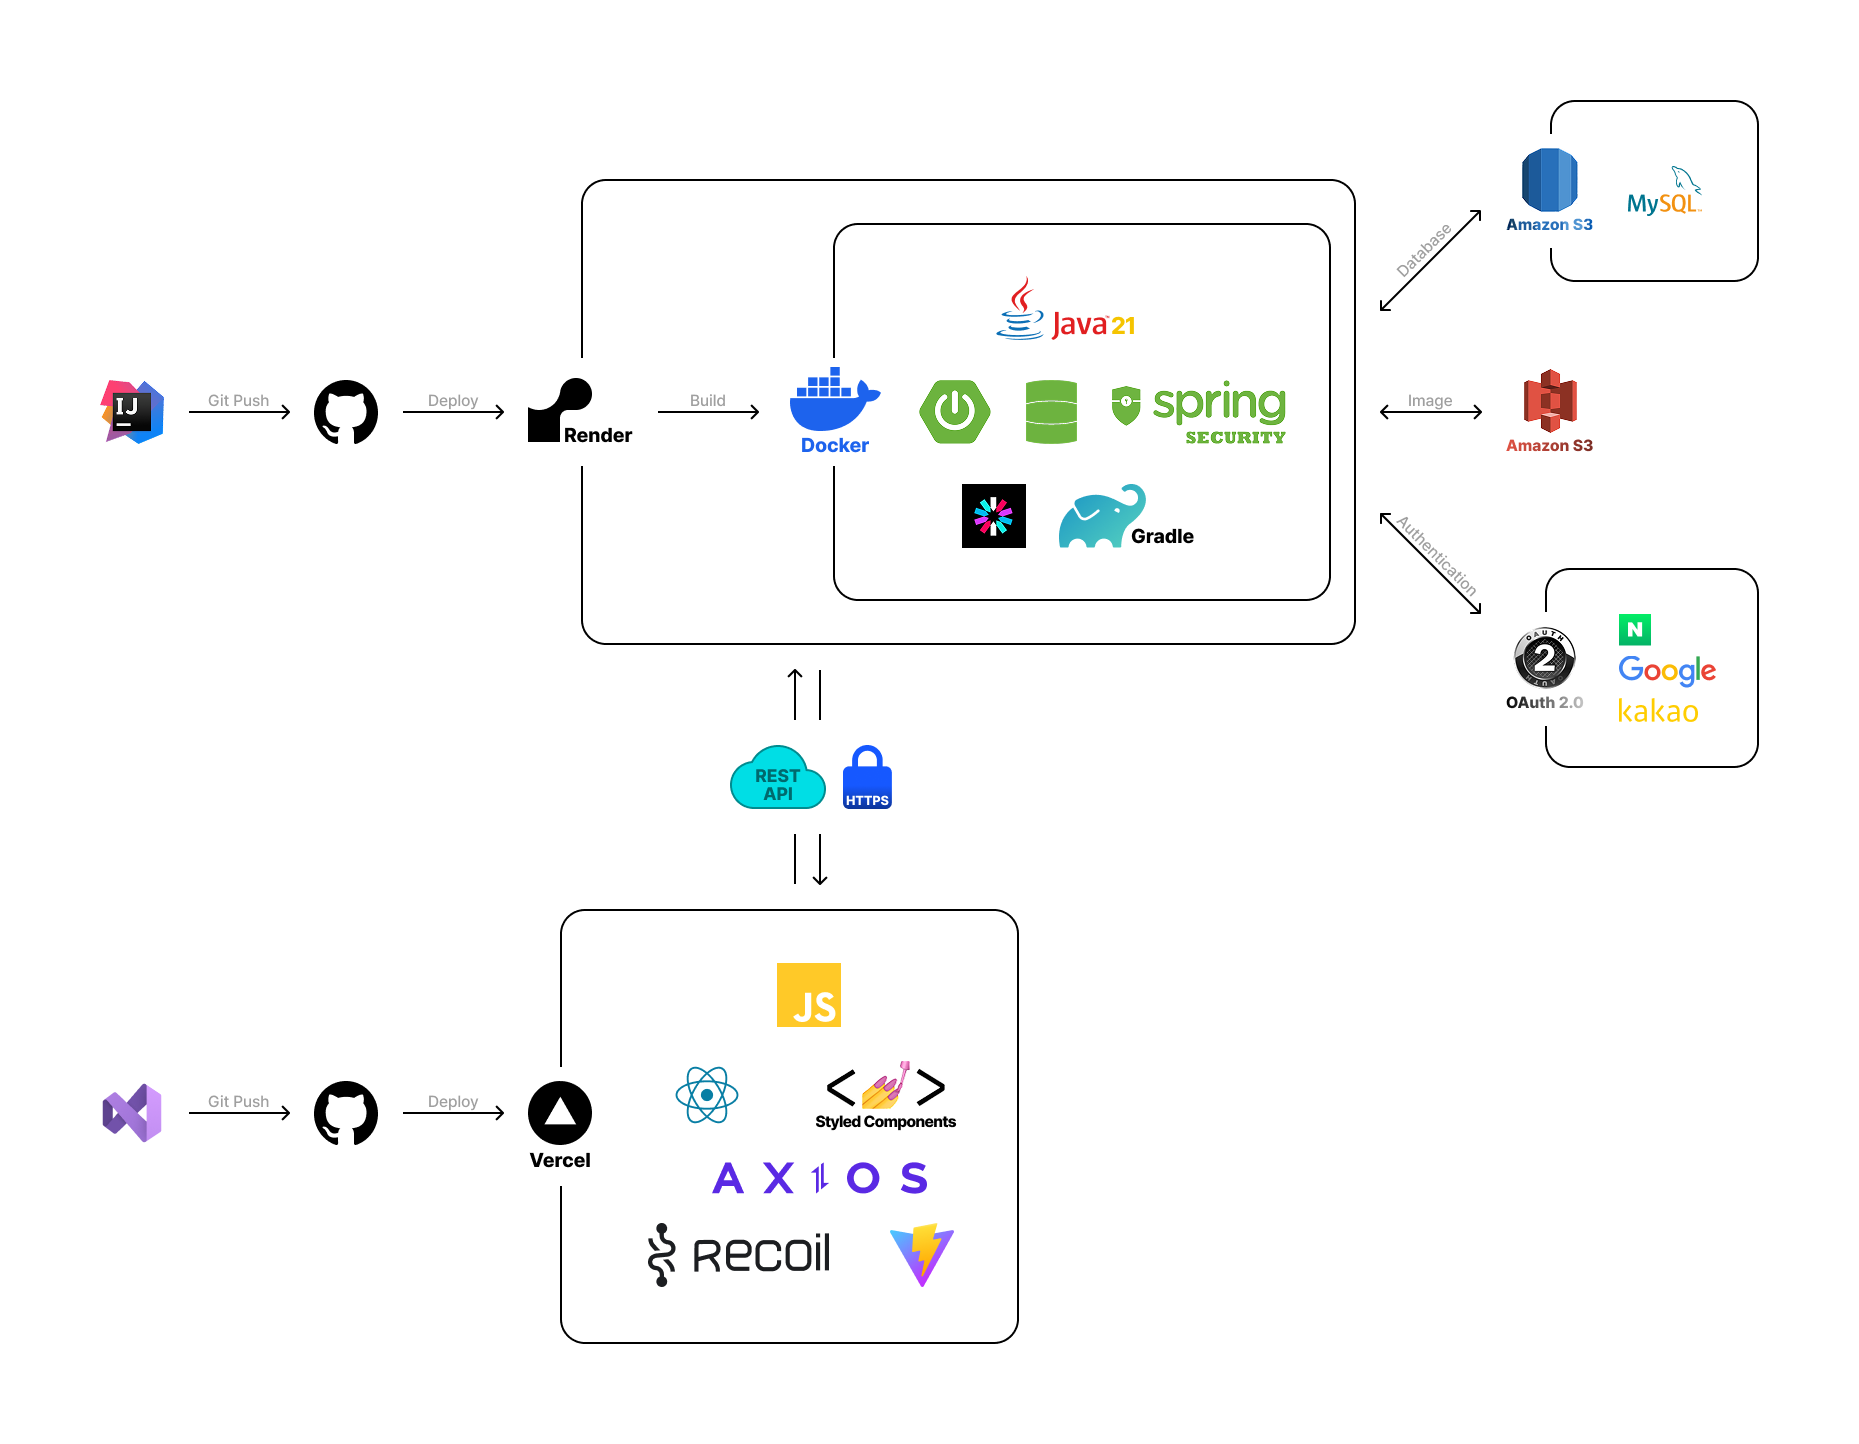
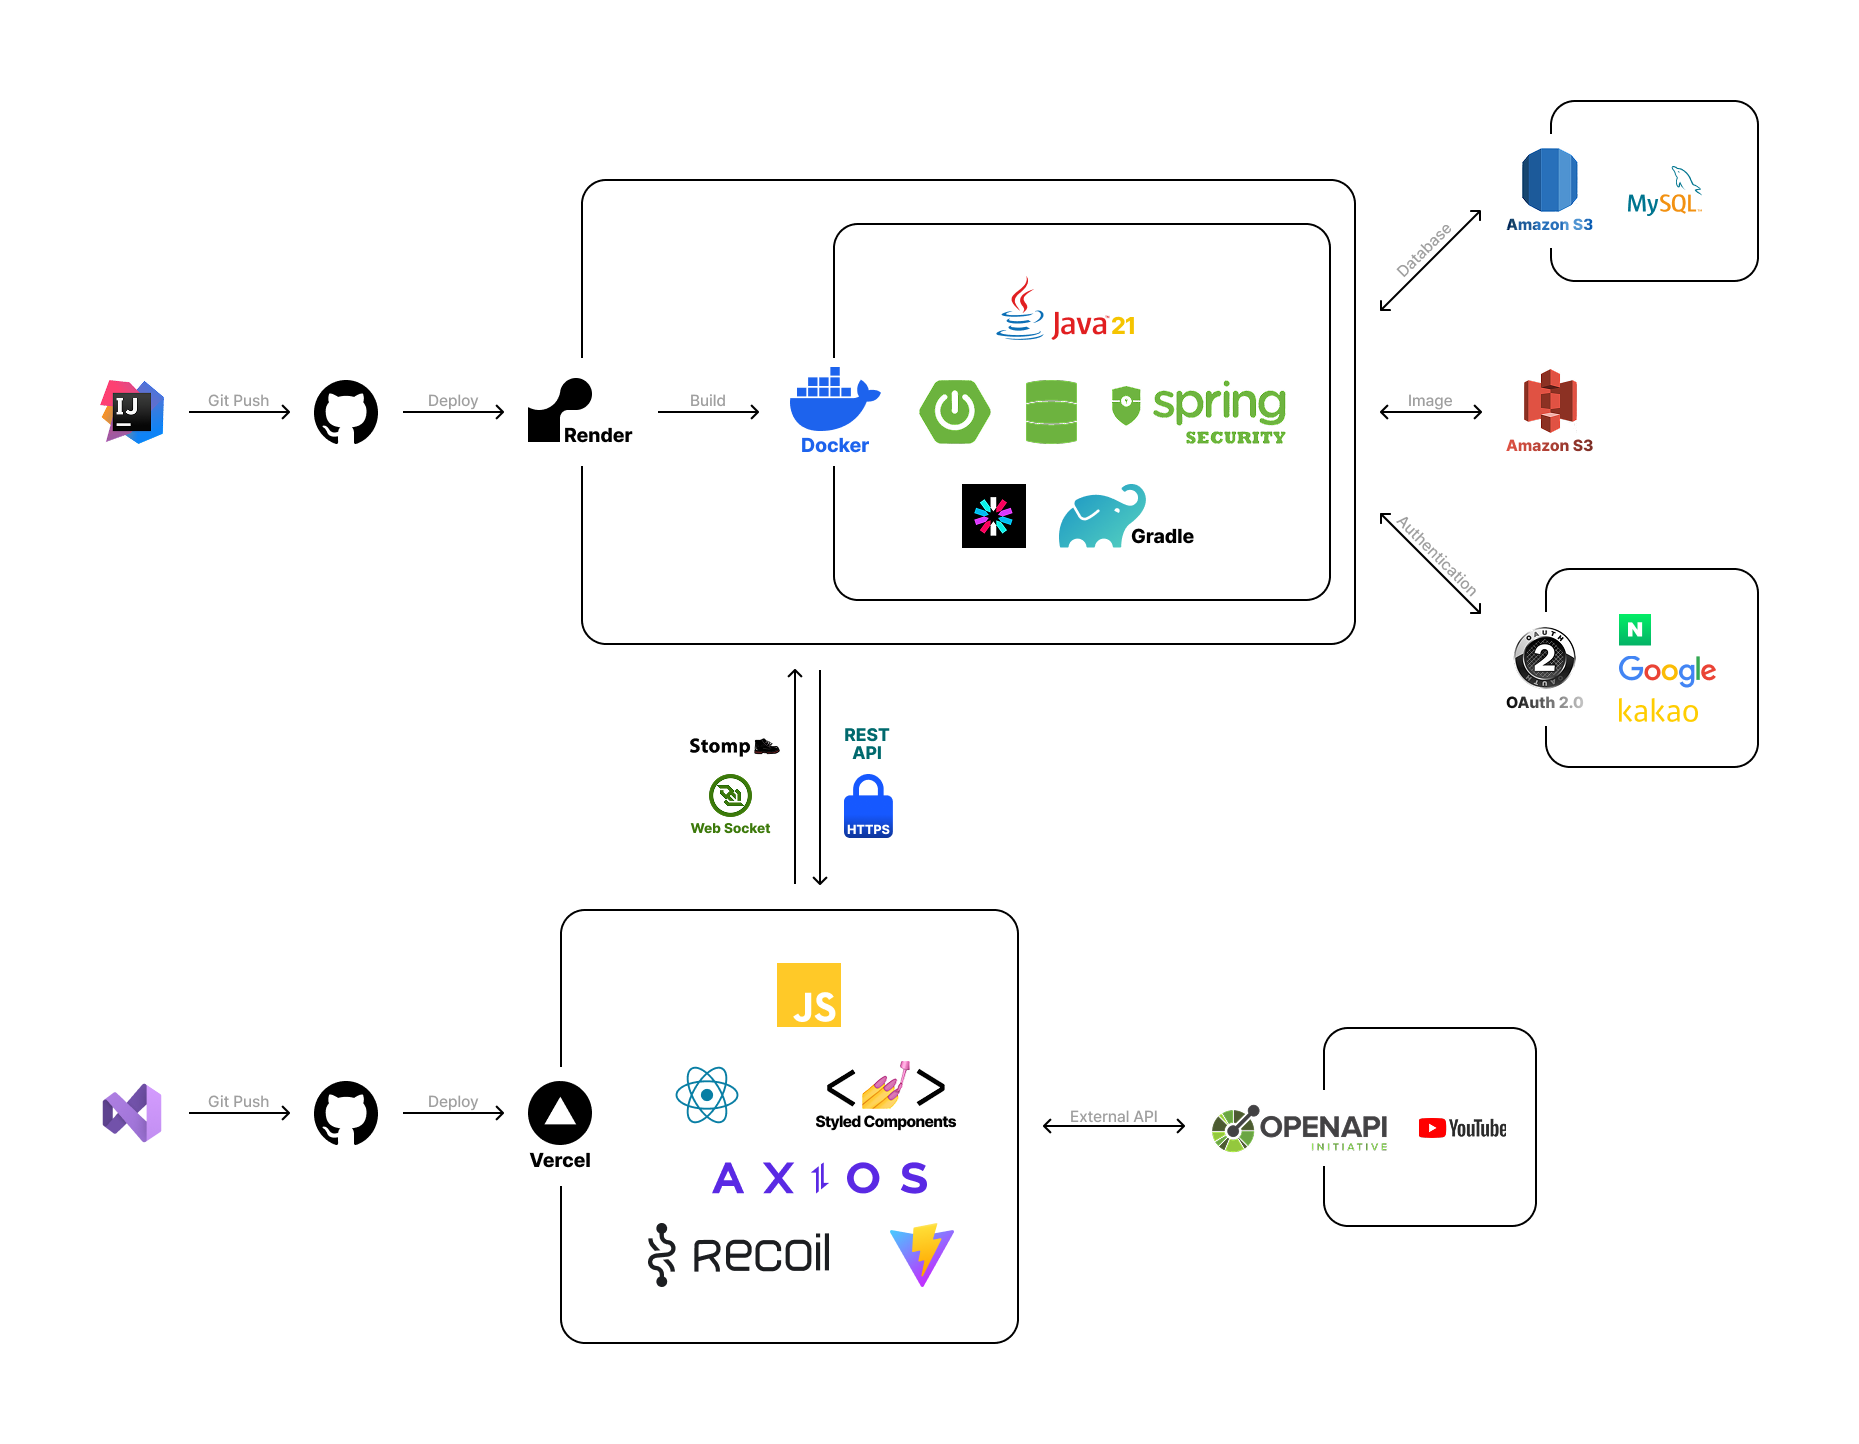
#fix: about page and system architecture

Changed region(s): [[0.3744, 0.4986, 0.4992, 0.5921], [0.6552, 0.7479, 0.8112, 0.8102]]

diff --git a/src/components/footer/about/index.jsx b/src/components/footer/about/index.jsx
@@ -43,6 +43,8 @@ const About = () => {
                     <S.SecondListItem>Vercel, Render, AWS (EC2, RDS, S3), Docker</S.SecondListItem>
                     <S.FirstListItem>Authentication</S.FirstListItem>
                     <S.SecondListItem>OAuth 2.0 (Naver, Kakao, Google), Gmail SMTP, JWT</S.SecondListItem>
+                    <S.FirstListItem>External API</S.FirstListItem>
+                    <S.SecondListItem>Youtube</S.SecondListItem>
                     <S.FirstListItem>Test</S.FirstListItem>
                     <S.SecondListItem>Postman</S.SecondListItem>
                     <S.FirstListItem>Version Controll</S.FirstListItem>
